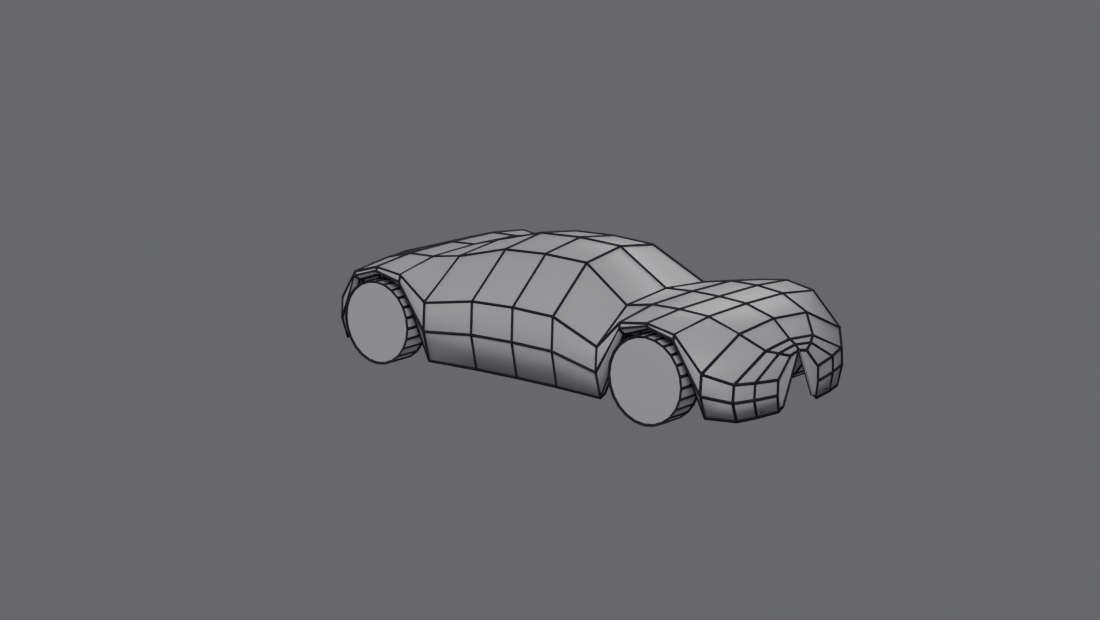
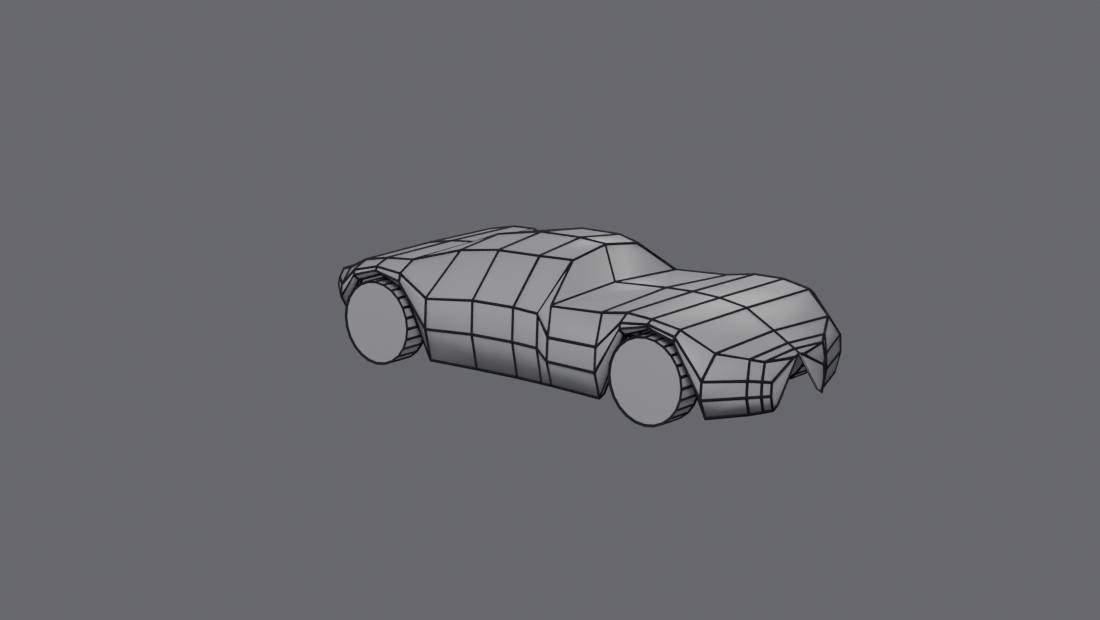
Resample the profile in a wheelbase-centred frame and shape the ends
The previous profile was sampled against assumed axle positions, but the
reference file's origin is not at the wheelbase centre — its axles sit at
-1.471 and +1.231, midpoint -0.120 — so the whole table was shifted 120mm
along the car relative to its own wheels.

Resampling corrects three shapes that were wrong. The nose tapers to a narrow
low prow rather than the blunt bulb it had become. The canopy is a separate
narrow structure standing on a wide body, rising 290mm across the 100mm
between x=0.35 and x=0.25 while its top edge pinches from 0.775 to 0.394, so
both stations are needed or it ramps into a slope. And the bottom edge is now
a measured line rather than a constant, which gives the tail its diffuser
cutaway at 0.460.

Length 4021mm against 4026 measured, wheelbase 2702mm.

Records the larger finding: their body object is an open hard-surface shell
with see-through arch cutouts, a blade sill and no roof, with the canopy as
separate glass objects. A closed smooth shell cannot be tuned to look like it.

Claude-Session: https://claude.ai/code/session_01Xx3q3FEn98y7dLvRCxTUeL

Changed region(s): [[0.3091, 0.3677, 0.7727, 0.7048]]

diff --git a/models/car_blockout.py b/models/car_blockout.py
@@ -74,61 +74,86 @@ CREASES = {
 }
 
 
-# Body profile measured off Concept_Model_WIP4.blend, not invented:
-# x, top-surface height at the centreline, half-width of the top-surface edge,
-# and half-width at the widest point. Axles sit at +/-1.351.
+# Body profile sampled off Concept_Model_WIP4.blend:
+#   x, top-surface height at the centreline, half-width of the top-surface
+#   edge, half-width at the widest point, and the bottom edge.
 #
-# Two things here were assumptions of mine that the file corrected. The canopy
-# crowns at x = 0.00, the exact middle of the wheelbase, not forward of it. And
-# the body pinches in through the cabin (0.824) while bulging at both arches
-# (0.90), rather than running at near-constant width.
+# Sampled in a wheelbase-CENTRED frame. Their file's origin is not at the
+# wheelbase centre — the axles sit at -1.471 and +1.231, midpoint -0.120 — so
+# an earlier pass that sampled against +/-1.351 had the whole profile shifted
+# 120mm along the car relative to its own wheels.
+#
+# Three features the measurements forced, all of which had been modelled wrong:
+#   - the nose tapers to a narrow low prow (0.339 half-width, 0.059 at the top
+#     edge), not the blunt round bulb it had become;
+#   - the canopy is a separate narrow structure standing on a wide body. It
+#     rises 290mm across the 100mm between x=0.35 and x=0.25 while the top edge
+#     pinches from 0.775 to 0.394. Both stations are needed or it ramps;
+#   - the tail bottom lifts to 0.460 for the diffuser cutaway, rather than
+#     running to the sill.
 PROFILE = [
-    # Nose tapers to a cap ring AT the measured tip, not past it — adding
-    # stations beyond the extremities stretched the car by 161mm.
-    ( 2.083, 0.512, 0.105, 0.260),   # cap ring, on the tip
-    ( 2.050, 0.548, 0.205, 0.505),
-    ( 2.000, 0.579, 0.300, 0.700),
-    ( 1.850, 0.713, 0.430, 0.898),
-    ( 1.600, 0.785, 0.470, 0.893),
-    ( 1.351, 0.799, 0.490, 0.893),
-    ( 1.100, 0.800, 0.495, 0.894),
-    ( 0.850, 0.786, 0.480, 0.855),
-    ( 0.400, 1.051, 0.410, 0.825),
-    ( 0.000, 1.063, 0.420, 0.824),
-    (-0.400, 1.042, 0.430, 0.841),
-    (-0.850, 0.920, 0.470, 0.896),
-    (-1.100, 0.849, 0.500, 0.901),
-    (-1.351, 0.833, 0.505, 0.899),
-    (-1.600, 0.762, 0.490, 0.888),
-    (-1.870, 0.680, 0.410, 0.760),
-    (-1.920, 0.660, 0.330, 0.620),
-    (-1.944, 0.640, 0.165, 0.310),   # cap ring, on the tip
+    ( 2.079, 0.490, 0.059, 0.339, 0.120),   # prow, capped
+    ( 2.040, 0.516, 0.370, 0.410, 0.114),
+    ( 1.980, 0.549, 0.479, 0.511, 0.105),
+    ( 1.850, 0.622, 0.720, 0.898, 0.091),
+    ( 1.600, 0.755, 0.817, 0.893, 0.091),
+    ( 1.351, 0.791, 0.828, 0.893, 0.091),   # front axle
+    ( 1.100, 0.800, 0.797, 0.894, 0.091),
+    ( 0.850, 0.791, 0.782, 0.870, 0.095),
+    ( 0.350, 0.759, 0.775, 0.826, 0.095),   # cowl, base of the screen
+    ( 0.250, 1.049, 0.394, 0.824, 0.095),   # top of the screen
+    ( 0.000, 1.063, 0.494, 0.818, 0.095),   # canopy crown, mid-wheelbase
+    (-0.400, 1.052, 0.509, 0.834, 0.095),
+    (-0.850, 0.970, 0.449, 0.875, 0.095),
+    (-1.100, 0.870, 0.739, 0.900, 0.091),
+    (-1.351, 0.844, 0.766, 0.900, 0.091),   # rear axle
+    (-1.600, 0.793, 0.746, 0.893, 0.131),
+    (-1.800, 0.707, 0.715, 0.835, 0.184),
+    (-1.942, 0.658, 0.649, 0.712, 0.460),   # tail, capped, diffuser cutaway
 ]
 
 # Where the remaining lines sit between the top surface and the sill, as a
 # fraction of the height available at that station. Fractions rather than
 # absolute heights, so the lines stay clear of the arch automatically wherever
 # the sill lifts — which is what folded the cage when the heights were fixed.
-SHOULDER_F, CHARACTER_F, TOP_EDGE_F = 0.58, 0.30, 0.06
-SHOULDER_W, SILL_W = 0.985, 0.930
+SHOULDER_F, CHARACTER_F = 0.58, 0.30
+TOP_EDGE_F, SHOULDER_W, SILL_W = 0.06, 0.985, 0.930
 
-STATIONS = [{"x": x, "top_z": tz, "edge_w": ew, "wide_w": ww}
-            for x, tz, ew, ww in PROFILE]
+STATIONS = [{"x": x, "top_z": tz, "edge_w": ew, "wide_w": ww, "bottom_z": bz}
+            for x, tz, ew, ww, bz in PROFILE]
 
 
 def _axles(p):
     return p["wheelbase"] / 2, -p["wheelbase"] / 2
 
 
+def _bottom_at(x):
+    """Measured bottom edge, interpolated between stations. Carries the tail's
+    diffuser cutaway, which a flat sill line cannot."""
+    xs = [row[0] for row in PROFILE]
+    if x >= xs[0]:
+        return PROFILE[0][4]
+    if x <= xs[-1]:
+        return PROFILE[-1][4]
+    for i in range(len(xs) - 1):
+        if xs[i] >= x >= xs[i + 1]:
+            t = (xs[i] - x) / (xs[i] - xs[i + 1])
+            return PROFILE[i][4] + t * (PROFILE[i + 1][4] - PROFILE[i][4])
+    return PROFILE[-1][4]
+
+
 def sill_height(x, p):
-    """Bottom edge of the body side, lifting into an elliptical opening over
-    each axle. Elliptical so the arch meets the sill exactly, with no step."""
+    """Bottom edge of the body side: the measured bottom line, lifted into an
+    elliptical opening over each axle. Elliptical so the arch meets the sill
+    exactly, with no step. Whichever is higher wins, so the arch survives at
+    the axles and the diffuser cutaway survives at the tail."""
+    base = _bottom_at(x)
     fx, rx = _axles(p)
     for cx, (w, h) in ((fx, p["arch_front"]), (rx, p["arch_rear"])):
         dx = x - cx
         if abs(dx) < w:
-            return p["sill"] + h * math.sqrt(1.0 - (dx / w) ** 2)
-    return p["sill"]
+            return max(base, p["sill"] + h * math.sqrt(1.0 - (dx / w) ** 2))
+    return base
 
 
 def station_rings(row, p=None):
